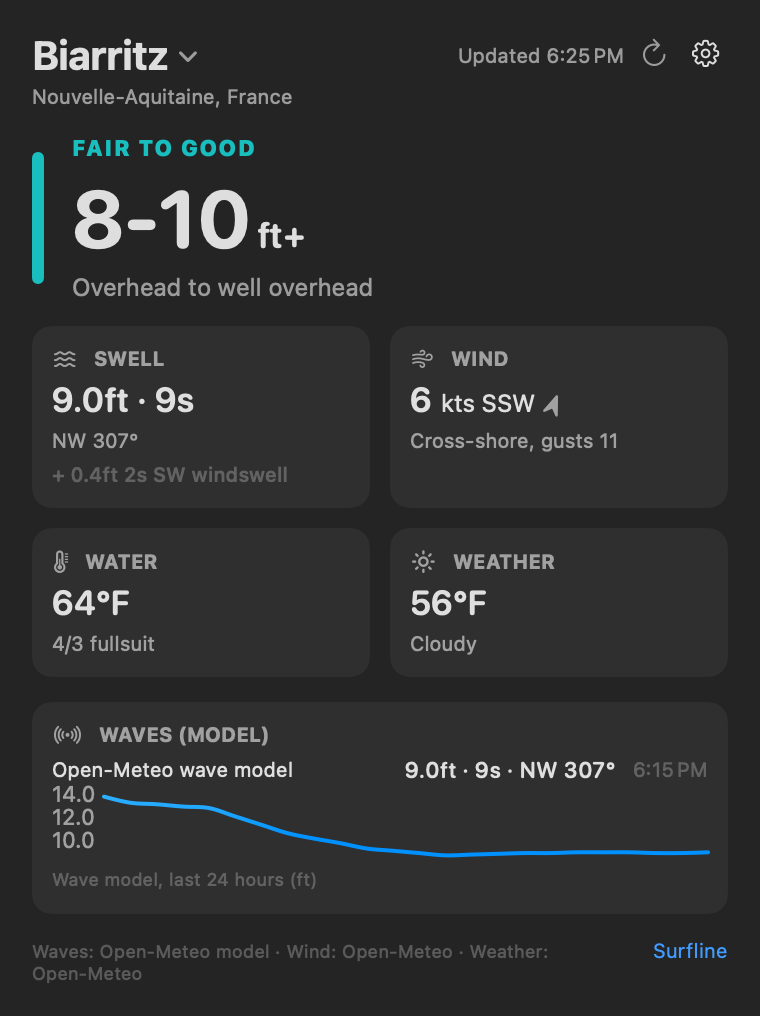
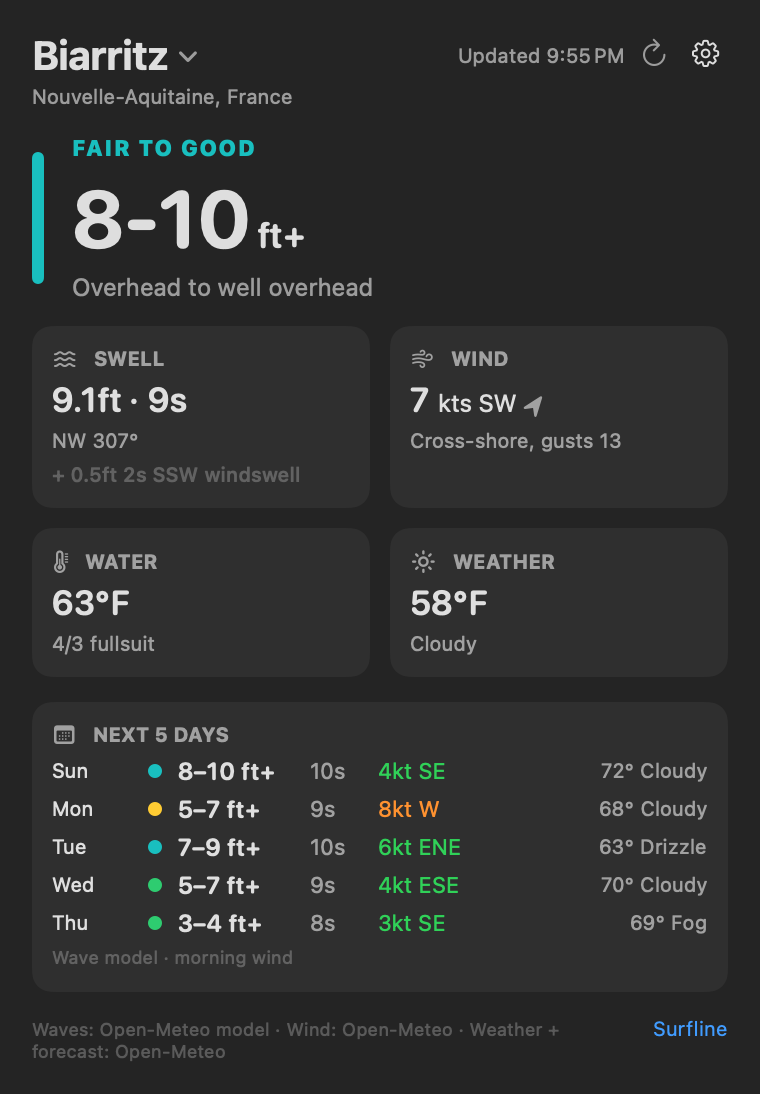
Five-day forecast in place of the buoy card
Next 5 Days shows each day's surf, period, morning wind and weather from Open-Meteo, scaled
to the current buoy reading where there is one. New bundle ID so macOS no longer files the
menu bar icon under the terminal app, and scripts/snapshots.sh renders the README screenshots
through open so that can't happen again. README and screenshots updated.

diff --git a/Sources/SurfData.swift b/Sources/SurfData.swift
@@ -43,6 +43,17 @@ struct HourlyWeather: Identifiable {
     var id: Date { time }
 }
 
+/// One day of the multi-day outlook: daytime surf from the wave model, morning wind, weather.
+struct DayForecast: Identifiable {
+    let date: Date // local midnight
+    var surfFt: Double // breaking height, daytime average
+    let periodS: Double
+    let wind: WindReading? // morning average, when wind matters most
+    let summary: String
+    let highF: Int?
+    var id: Date { date }
+}
+
 struct SurfReport {
     var nearshore: BuoyReading?
     var nearshoreHistory: [BuoyReading] = []
@@ -53,6 +64,7 @@ struct SurfReport {
     var tideCurve: [TidePoint] = []
     var tideEvents: [TideEvent] = []
     var hourly: [HourlyWeather] = []
+    var forecast: [DayForecast] = []
     var wavesFromModel = false // no buoy: Open-Meteo wave model
     var windFromModel = false // no wind station: Open-Meteo forecast
     var fetchedAt = Date()
@@ -90,6 +102,7 @@ enum SurfAPI {
         async let windText = ndbc(spot.windStation, "txt")
         async let tides = tideData(spot.tideStation)
         async let forecast = openMeteo(spot)
+        async let outlook = dailyForecast(spot)
 
         var report = SurfReport()
         if let rows = await nearText.map(ndbcRows) {
@@ -129,6 +142,13 @@ enum SurfAPI {
         if report.wind == nil {
             report.wind = weather.wind
             report.windFromModel = weather.wind != nil
+        }
+        // The wave model reads open water, so scale the outlook to match today's buoy-based surf.
+        let days = await outlook
+        report.forecast = days.days
+        if !report.wavesFromModel, let near = report.nearshore, let modelNow = days.nowFt, modelNow > 0.3 {
+            let ratio = min(max(Surf.breakingHeightFt(buoyHeightFt: near.heightFt, periodS: near.periodS) / modelNow, 0.5), 1.5)
+            for i in report.forecast.indices { report.forecast[i].surfFt *= ratio }
         }
         let tideResult = await tides
         report.tideCurve = tideResult.curve
@@ -273,6 +293,76 @@ enum SurfAPI {
             }
         }
         return (reading, history, component("swell_wave"), component("wind_wave"))
+    }
+
+    /// The five days after today (the hero already covers today): Open-Meteo Marine waves and Open-Meteo weather, grouped by local day.
+    /// nowFt is the model's breaking height for the current hour, for matching it to the buoy.
+    private static func dailyForecast(_ spot: Spot) async -> (days: [DayForecast], nowFt: Double?) {
+        let marineURL = "https://marine-api.open-meteo.com/v1/marine?latitude=\(spot.lat)&longitude=\(spot.lon)"
+            + "&hourly=wave_height,wave_period,swell_wave_period&forecast_days=6&timezone=auto"
+        let weatherURL = "https://api.open-meteo.com/v1/forecast?latitude=\(spot.lat)&longitude=\(spot.lon)"
+            + "&hourly=wind_speed_10m,wind_direction_10m&daily=weather_code,temperature_2m_max&forecast_days=6"
+            + "&temperature_unit=fahrenheit&wind_speed_unit=kn&timezone=auto"
+        async let marineJSON = json(marineURL)
+        async let weatherJSON = json(weatherURL)
+        guard let marine = await marineJSON as? [String: Any], let h = marine["hourly"] as? [String: Any],
+              let times = h["time"] as? [String], let heights = h["wave_height"] as? [Double?] else { return ([], nil) }
+        let weather = await weatherJSON as? [String: Any]
+
+        // Times are local to the spot ("2026-10-24T06:00"): group by the date part, filter by the hour.
+        let local = DateFormatter()
+        local.locale = Locale(identifier: "en_US_POSIX")
+        local.timeZone = TimeZone(secondsFromGMT: marine["utc_offset_seconds"] as? Int ?? 0)
+        local.dateFormat = "yyyy-MM-dd'T'HH:mm"
+        let swellPeriods = h["swell_wave_period"] as? [Double?] ?? [], wavePeriods = h["wave_period"] as? [Double?] ?? []
+        func hour(_ t: String) -> Int { Int(t.dropFirst(11).prefix(2)) ?? 0 }
+
+        var surf: [String: [(ft: Double, period: Double)]] = [:]
+        var nowFt: Double?
+        let now = Date()
+        for i in times.indices where i < heights.count {
+            guard let height = heights[i] else { continue }
+            let period = (i < swellPeriods.count ? swellPeriods[i] : nil) ?? (i < wavePeriods.count ? wavePeriods[i] : nil) ?? 0
+            let ft = Surf.breakingHeightFt(buoyHeightFt: height * 3.28084, periodS: period)
+            if let t = local.date(from: times[i]), abs(t.timeIntervalSince(now)) < 1800 { nowFt = ft }
+            if (6...18).contains(hour(times[i])) { surf[String(times[i].prefix(10)), default: []].append((ft, period)) }
+        }
+
+        var wind: [String: [(speed: Double, deg: Double)]] = [:]
+        if let wh = weather?["hourly"] as? [String: Any], let wt = wh["time"] as? [String] {
+            let speeds = wh["wind_speed_10m"] as? [Double?] ?? [], dirs = wh["wind_direction_10m"] as? [Double?] ?? []
+            for i in wt.indices where (6...10).contains(hour(wt[i])) && i < speeds.count && i < dirs.count {
+                if let s = speeds[i], let d = dirs[i] { wind[String(wt[i].prefix(10)), default: []].append((s, d)) }
+            }
+        }
+        var summaries: [String: String] = [:], highs: [String: Int] = [:]
+        if let daily = weather?["daily"] as? [String: Any], let dt = daily["time"] as? [String] {
+            let codes = daily["weather_code"] as? [Int?] ?? [], temps = daily["temperature_2m_max"] as? [Double?] ?? []
+            for i in dt.indices {
+                if i < codes.count, let c = codes[i] { summaries[dt[i]] = weatherSummary(c) }
+                if i < temps.count, let t = temps[i] { highs[dt[i]] = Int(t.rounded()) }
+            }
+        }
+
+        let dayFormat = DateFormatter()
+        dayFormat.locale = Locale(identifier: "en_US_POSIX")
+        dayFormat.timeZone = local.timeZone
+        dayFormat.dateFormat = "yyyy-MM-dd"
+        let today = String(local.string(from: now).prefix(10))
+        let days = surf.keys.sorted().filter { $0 > today }.prefix(5).compactMap { key -> DayForecast? in
+            guard let samples = surf[key], !samples.isEmpty, let date = dayFormat.date(from: key) else { return nil }
+            var morning: WindReading?
+            if let w = wind[key], !w.isEmpty {
+                // Average the wind as a vector so 350° and 10° don't average to 180°.
+                let x = w.map { $0.speed * cos($0.deg * .pi / 180) }.reduce(0, +), y = w.map { $0.speed * sin($0.deg * .pi / 180) }.reduce(0, +)
+                let deg = (atan2(y, x) * 180 / .pi + 360).truncatingRemainder(dividingBy: 360)
+                morning = WindReading(time: date, speedKts: w.map(\.speed).reduce(0, +) / Double(w.count), gustKts: nil, directionDeg: deg)
+            }
+            return DayForecast(date: date, surfFt: samples.map(\.ft).reduce(0, +) / Double(samples.count),
+                               periodS: samples.map(\.period).max() ?? 0, wind: morning,
+                               summary: summaries[key] ?? "", highF: highs[key])
+        }
+        return (days, nowFt)
     }
 
     /// WMO weather codes, as Open-Meteo reports them.

diff --git a/Sources/SurfPopover.swift b/Sources/SurfPopover.swift
@@ -30,7 +30,7 @@ struct SurfPopover: View {
                 }
                 .fixedSize(horizontal: false, vertical: true)
                 if !report.tideCurve.isEmpty { tideCard(report) }
-                buoyCard(report)
+                if !report.forecast.isEmpty { forecastCard(report) }
                 footer(report)
             } else if model.isLoading {
                 ProgressView("Checking the buoys…")
@@ -215,48 +215,31 @@ struct SurfPopover: View {
         }
     }
 
-    private func buoyCard(_ report: SurfReport) -> some View {
-        Card(title: report.wavesFromModel ? "WAVES (MODEL)" : "BUOYS", icon: "dot.radiowaves.left.and.right") {
-            if let near = report.nearshore {
-                buoyRow(report.wavesFromModel ? "Open-Meteo wave model" : model.spot.waveBuoy?.name ?? "Buoy", near)
-            }
-            if let outer = report.outer {
-                buoyRow(model.spot.outerBuoy?.name ?? "Outer buoy", outer)
-            }
-            if report.nearshoreHistory.count > 3 {
-                Chart(report.nearshoreHistory, id: \.time) { reading in
-                    LineMark(x: .value("Time", reading.time), y: .value("Height", reading.heightFt))
-                        .foregroundStyle(Color.blue.gradient)
-                        .interpolationMethod(.catmullRom)
-                }
-                .chartXAxis(.hidden)
-                .chartYAxis {
-                    AxisMarks(position: .leading, values: .automatic(desiredCount: 2)) { value in
-                        AxisValueLabel { if let v = value.as(Double.self) { Text("\(v, specifier: "%.1f")") } }
+    private func forecastCard(_ report: SurfReport) -> some View {
+        Card(title: "NEXT \(report.forecast.count) DAYS", icon: "calendar") {
+            ForEach(report.forecast) { day in
+                let range = Surf.range(day.surfFt)
+                let rating = Surf.rating(range: range, periodS: day.periodS, wind: day.wind, offshoreFrom: model.spot.offshoreFromDeg)
+                HStack(spacing: 8) {
+                    Text(day.date.formatted(.dateTime.weekday(.abbreviated)))
+                        .font(.caption).frame(width: 40, alignment: .leading)
+                    Circle().fill(rating.color).frame(width: 7, height: 7)
+                    Text(range.spaced).font(.system(size: 12, weight: .semibold, design: .rounded)).frame(width: 58, alignment: .leading)
+                    Text("\(Int(day.periodS.rounded()))s").font(.system(size: 11)).foregroundStyle(.secondary).frame(width: 26, alignment: .leading)
+                    if let wind = day.wind {
+                        let kind = Surf.windKind(fromDeg: wind.directionDeg, offshoreFrom: model.spot.offshoreFromDeg)
+                        Text("\(Int(wind.speedKts.rounded()))kt \(Surf.compass(wind.directionDeg))")
+                            .font(.system(size: 11))
+                            .foregroundStyle(kind == .offshore ? Color.green : kind == .onshore ? Color.orange : Color.secondary)
+                            .frame(width: 58, alignment: .leading)
                     }
+                    Spacer()
+                    Text([day.highF.map { "\($0)°" }, day.summary.isEmpty ? nil : day.summary].compactMap { $0 }.joined(separator: " "))
+                        .font(.system(size: 10)).foregroundStyle(.secondary).lineLimit(1)
                 }
-                .chartYScale(domain: sparklineDomain(report.nearshoreHistory))
-                .frame(height: 34)
-                Text("\(report.wavesFromModel ? "Wave model" : model.spot.waveBuoy?.name ?? "Buoy"), last 24 hours (ft)")
-                    .font(.system(size: 9)).foregroundStyle(.tertiary)
             }
-        }
-    }
-
-    private func sparklineDomain(_ readings: [BuoyReading]) -> ClosedRange<Double> {
-        let heights = readings.map(\.heightFt)
-        let lo = heights.min() ?? 0, hi = heights.max() ?? 1
-        return max(0, lo - 0.4)...(hi + 0.4)
-    }
-
-    private func buoyRow(_ name: String, _ reading: BuoyReading) -> some View {
-        HStack {
-            Text(name).font(.caption)
-            Spacer()
-            Text("\(reading.heightFt, specifier: "%.1f")ft · \(Int(reading.periodS))s\(reading.directionDeg.map { " · \(Surf.compass($0)) \(Int($0))°" } ?? "")")
-                .font(.system(size: 11, weight: .medium, design: .rounded))
-            Text(reading.time.formatted(date: .omitted, time: .shortened))
-                .font(.system(size: 10)).foregroundStyle(.tertiary)
+            Text(report.wavesFromModel ? "Wave model · morning wind" : "Wave model scaled to today's buoy · morning wind")
+                .font(.system(size: 9)).foregroundStyle(.tertiary)
         }
     }
 
@@ -266,7 +249,7 @@ struct SurfPopover: View {
         parts.append(report.wavesFromModel ? "Waves: Open-Meteo model" : "Waves: NDBC \(spot.waveBuoy?.id ?? "")")
         parts.append(report.windFromModel ? "Wind: Open-Meteo" : "Wind: NDBC \(spot.windStation?.id ?? "")")
         if let tide = spot.tideStation { parts.append("Tide: NOAA \(tide.id)") }
-        parts.append("Weather: Open-Meteo")
+        parts.append("Weather + forecast: Open-Meteo")
         return HStack(alignment: .firstTextBaseline) {
             Text(parts.joined(separator: " · ")).font(.system(size: 9)).foregroundStyle(.tertiary)
             Spacer()

diff --git a/README.md b/README.md
@@ -7,8 +7,8 @@
 <p align="center"><img src="docs/menubar.png" width="460" alt="Swellbar in the menu bar: a colored dot and 3-4+"></p>
 
 Swellbar puts the current surf height in your menu bar (`● 3-4+`), with the dot colored by
-how good it is. Click it for swell, wind, water temperature, weather, a tide chart and buoy
-readings. It works for any beach: search for yours and Swellbar finds the nearest buoys and
+how good it is. Click it for swell, wind, water temperature, weather, a tide chart and a
+five-day forecast. It works for any beach: search for yours and Swellbar finds the nearest buoys and
 stations on its own. No account, no API keys, free public data.
 
 <p align="center">
@@ -16,6 +16,13 @@ stations on its own. No account, no API keys, free public data.
   &nbsp;
   <img src="docs/popover-huntington.png" width="320" alt="Swellbar report for Huntington Beach, California">
 </p>
+
+## Five-day forecast
+
+Under the tide chart, **Next 5 Days** shows each day's surf, swell period, morning wind
+(green when it's offshore, orange when it's onshore), the high temperature and the sky. The
+surf comes from the Open-Meteo wave model. Where there's a buoy, the forecast is scaled so it
+lines up with what the buoy says right now.
 
 ## Pick your spot
 
@@ -110,9 +117,12 @@ consistently high or low next to Surfline, adjust that one number and rebuild.
 The README screenshots are rendered by the app itself from live data:
 
 ```sh
-build/Swellbar.app/Contents/MacOS/Swellbar --snapshot docs/popover-delmar.png --snapshot-menubar docs/menubar.png
-build/Swellbar.app/Contents/MacOS/Swellbar --spot "Huntington Beach Pier" --snapshot docs/popover-huntington.png --snapshot-picker docs/spot-picker.png
+scripts/snapshots.sh
 ```
+
+Don't run `build/Swellbar.app/Contents/MacOS/Swellbar` straight from a terminal: macOS then files
+Swellbar's menu bar icon under the terminal app, and hides it whenever that app is off in
+System Settings > Menu Bar. Launch it with `open` (the script does).
 
 ## License
 
